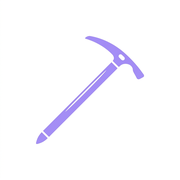
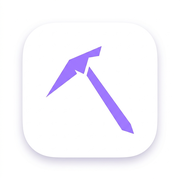
feat(branding): 2-shard minimalist lavender ice pick on rounded white squircle

diff --git a/generate_app_icons.py b/generate_app_icons.py
@@ -3,7 +3,7 @@ from pathlib import Path
 from PIL import Image
 
 BRAIN_DIR = Path(r"C:\Users\heito\.gemini\antigravity\brain\da4ff062-7090-4a3a-8b02-9789d5fd39b7")
-SOURCE_IMG = BRAIN_DIR / "lavender_icepick_angled_1788458032280.jpg"
+SOURCE_IMG = BRAIN_DIR / "abstract_shards_icepick_1788458201589.jpg"
 
 BASE_DIR = Path(__file__).resolve().parent
 MOBILE_DIR = BASE_DIR / "mobile"
